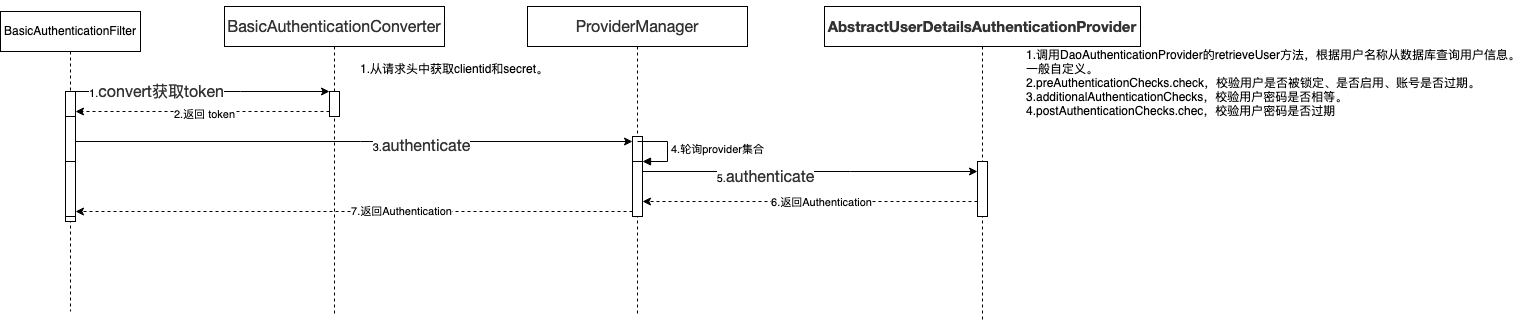
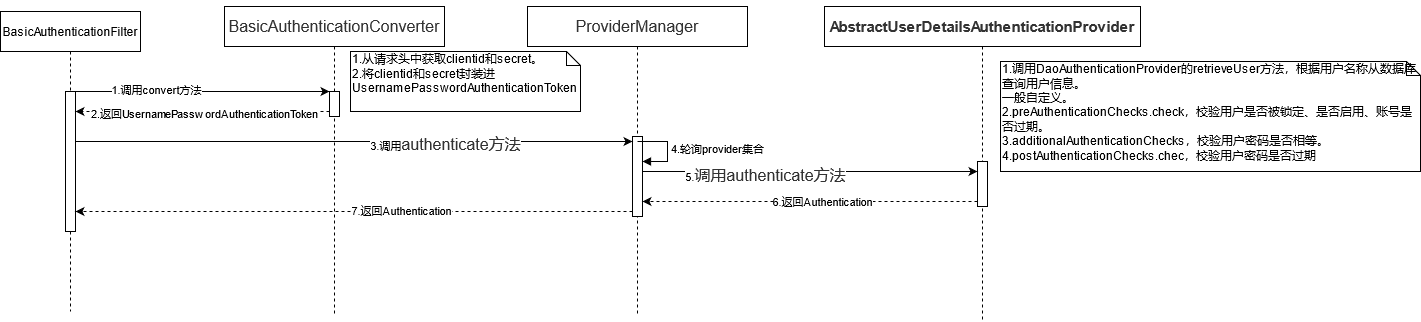
spring security权限校验流程

diff --git a/spring/security/Spring Sercurity 认证过程.md b/spring/security/Spring Sercurity 认证过程.md
@@ -4,19 +4,21 @@
 
 ### 获取token
 
-1. 认证流程
+获取token的流程分为两个大步骤：
+
+1. 认证。在basic模式下，BasicAuthenticationFilter过滤器对请求进行拦截，并进行一系列的登录认证。
 
 ![](../../images/security/3.png)
 
-2. 获取token流程。
+2. 获取token流程。过滤器链调用完之后，请求进入/oauth/token接口获取或者创建token。
 
-
+![](../../images/security/4.png)
 
 #### 1. BasicAuthenticationFilter。
 
 > Http Basic模式，请求头中Authorization=Basic xxxxxx
 
-1. 调用BasicAuthenticationConverter的convert方法获取请求头Authorization头。它是ClientId和secret BASE64后的字符串。
+1. 调用BasicAuthenticationConverter的convert方法获取请求头Authorization头。它 是ClientId和secret BASE64后的字符串。
 2. 调用ProviderManager的authenticate方法进行认证。
 
 ```java
@@ -115,13 +117,12 @@ additionalAuthenticationChecks(user,
 
 #### 4.FilterSecurityInterceptor。 
 
-过滤器链中最后一个过滤器，主要是用来进行权限校验。判断用户访问的路径是否有权限。
+过滤器链中最后一个过滤器，主要是用来进行权限校验。判断用户访问的路径是否有权限。经过这个过滤器后，请求正式进入请求方法。
 
 
 
-#### 5. 访问/oauth/token接口。
+#### 5. 访问TokenEndpoint的/oauth/token接口
 
-1. 调用TokenEndpoint中postAccessToken方法。
 2. 在postAccessToken方法中会调用CompositeTokenGranter.grant方法。
 
 ```java
@@ -131,10 +132,12 @@ OAuth2AccessToken token = getTokenGranter().grant(tokenRequest.getGrantType(), t
 		}
 ```
 
-2. CompositeTokenGranter.grant逻辑。
+#### 6. CompositeTokenGranter。
+
+循环tokenGranters集合，调用grant方法。
 
 ```java
-//for循环中调用AbstractTokenGranter的grant方法。
+
 public OAuth2AccessToken grant(String grantType, TokenRequest tokenRequest) {
 		for (TokenGranter granter : tokenGranters) {
 			OAuth2AccessToken grant = granter.grant(grantType, tokenRequest);
@@ -146,7 +149,7 @@ public OAuth2AccessToken grant(String grantType, TokenRequest tokenRequest) {
 	}
 ```
 
-3. AbstractTokenGranter逻辑
+#### 7. AbstractTokenGranter
 
 ```java
 if (!this.grantType.equals(grantType)) {
@@ -162,15 +165,17 @@ return getAccessToken(client, tokenRequest);
 
 ```
 
-* getAccessToken方法，调用createAccessToken方法创建token，并返回token。
+* getAccessToken方法，先调用getOAuth2Authentication方法，验证用户信息，在调用createAccessToken方法创建token，并返回token。
 
-```
+```java
 protected OAuth2AccessToken getAccessToken(ClientDetails client, TokenRequest tokenRequest) {
    return tokenServices.createAccessToken(getOAuth2Authentication(client, tokenRequest));
 }
 ```
 
-* getOAuth2Authentication方法。调用子类ResourceOwnerPasswordTokenGranter的实现。在此方法中最再次调用ProviderManager的authenticate方法来进行登录认证。与前面调用区别是username和password是用户的实际账号、密码。
+#### 8. ResourceOwnerPasswordTokenGranter
+
+调用ProviderManager的authenticate方法来进行登录认证，username和password是用户的实际账号、密码，不是clientid。
 
 ```java
 Map<String, String> parameters = new LinkedHashMap<String, String>(tokenRequest.getRequestParameters());
@@ -195,55 +200,55 @@ Map<String, String> parameters = new LinkedHashMap<String, String>(tokenRequest.
 
 
 
-### 用户请求调用链
 
-时序图略。
 
-#### 1. OAuth2AuthenticationProcessingFilter
+### 用户请求调用链路
+
+![](../../images/security/5.png)
+
+1. OAuth2AuthenticationProcessingFilter拦截用户请求
 
 ```java
 public void doFilter(ServletRequest req, ServletResponse res, FilterChain chain) throws IOException,
 			ServletException {
     //获取前端传送的token
-	Authentication authentication = 	tokenExtractor.extract(request);
+	Authentication authentication = tokenExtractor.extract(request);
     //登录认证
     Authentication authResult = authenticationManager.authenticate(authentication);
 }
 ```
 
-1. 获取用户请求token。
+2. 获取用户请求token。
 
-   ```java
-   protected String extractHeaderToken(HttpServletRequest request) {
-   //获取请求头中的Authorization
-   		Enumeration<String> headers = request.getHeaders("Authorization");
-       
-   		while (headers.hasMoreElements()) { 
-   			String value = headers.nextElement();
-      //获取value以bearer开头的值         
-   			if ((value.toLowerCase().startsWith(OAuth2AccessToken.BEARER_TYPE.toLowerCase()))) {
-      //获取token             
-   				String authHeaderValue = value.substring(OAuth2AccessToken.BEARER_TYPE.length()).trim();
-   				
-   				request.setAttribute(OAuth2AuthenticationDetails.ACCESS_TOKEN_TYPE,
-   						value.substring(0, OAuth2AccessToken.BEARER_TYPE.length()).trim());
-   				int commaIndex = authHeaderValue.indexOf(',');
-   				if (commaIndex > 0) {
-   					authHeaderValue = authHeaderValue.substring(0, commaIndex);
-   				}
-   				return authHeaderValue;
-   			}
-   		}
+```java
+protected String extractHeaderToken(HttpServletRequest request) {
+//获取请求头中的Authorization
+		Enumeration<String> headers = request.getHeaders("Authorization");
+    
+		while (headers.hasMoreElements()) { 
+			String value = headers.nextElement();
+   //获取value以bearer开头的值         
+			if ((value.toLowerCase().startsWith(OAuth2AccessToken.BEARER_TYPE.toLowerCase()))) {
+   //获取token             
+				String authHeaderValue = value.substring(OAuth2AccessToken.BEARER_TYPE.length()).trim();
+				
+				request.setAttribute(OAuth2AuthenticationDetails.ACCESS_TOKEN_TYPE,
+						value.substring(0, OAuth2AccessToken.BEARER_TYPE.length()).trim());
+				int commaIndex = authHeaderValue.indexOf(',');
+				if (commaIndex > 0) {
+					authHeaderValue = authHeaderValue.substring(0, commaIndex);
+				}
+				return authHeaderValue;
+			}
+		}
 
-   		return null;
-   	}
-   ```
+		return null;
+	}
+```
 
-   
+3. 调用OAuth2AuthenticationManager.authenticate获取token，验证token的有效性。
 
-2. 调用ProviderManager.authenticate方法，进行登录认证。
-
-3. 调用最后一个权限过滤器。
+4. 调用FilterSecurityInterceptor过滤器,，进行权限校验。
 
 
 
